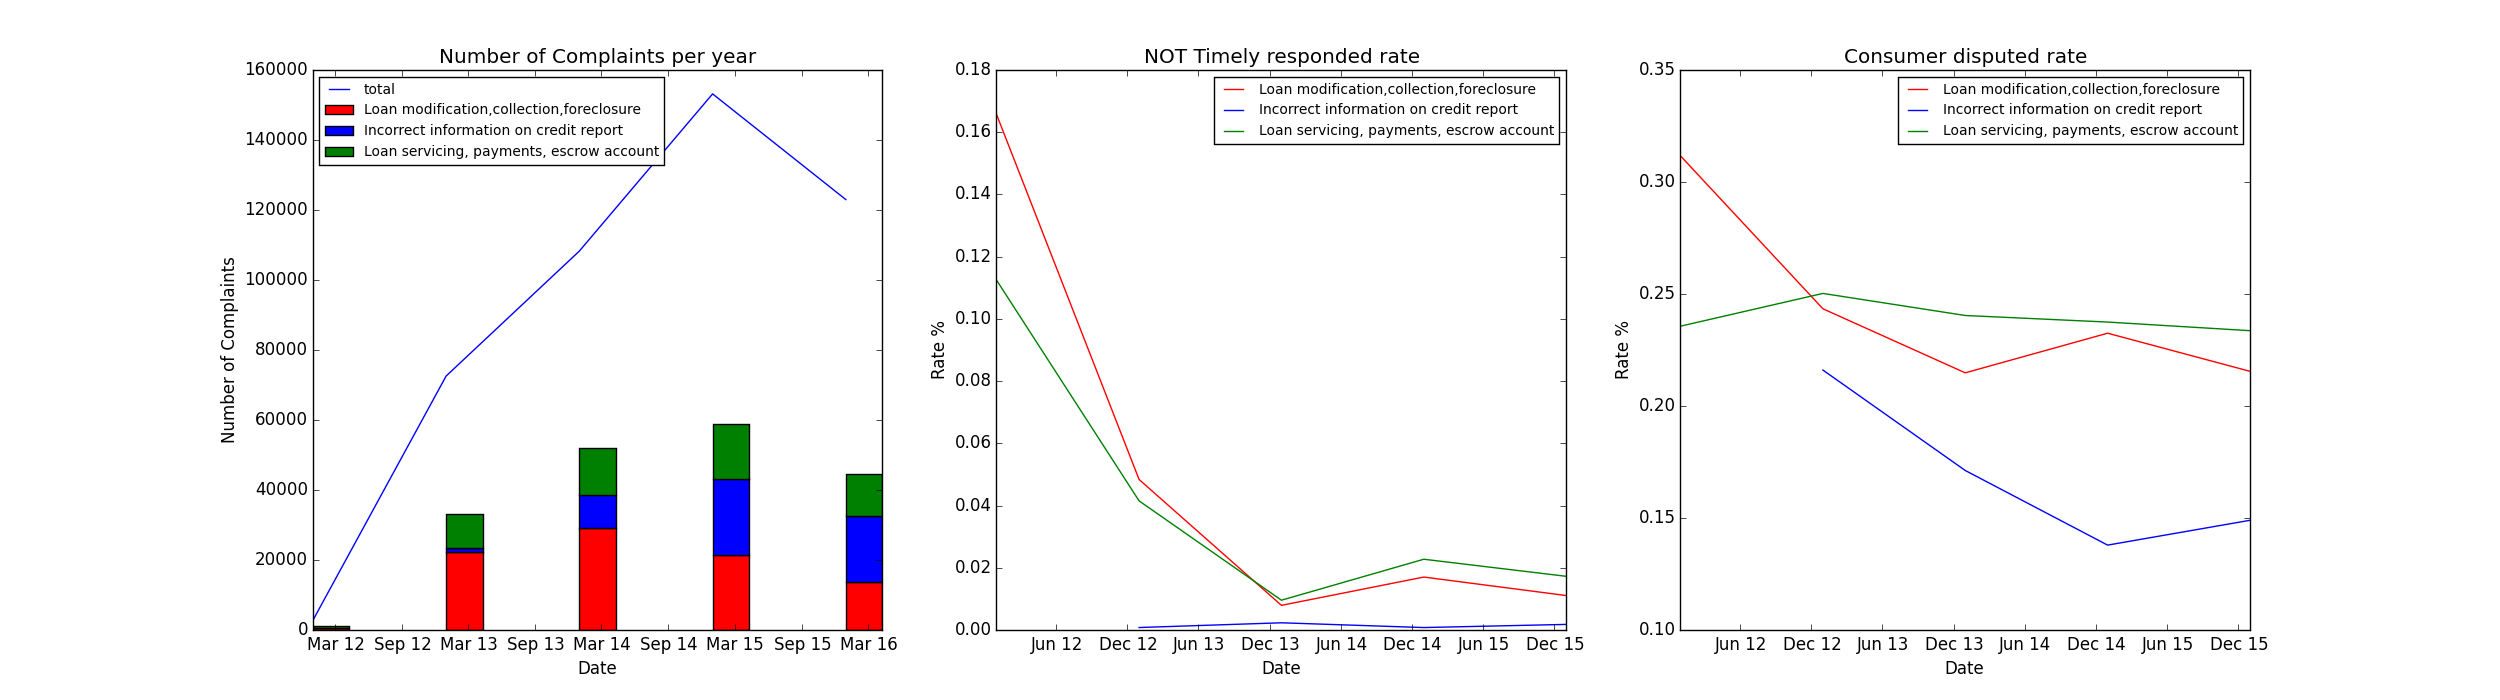
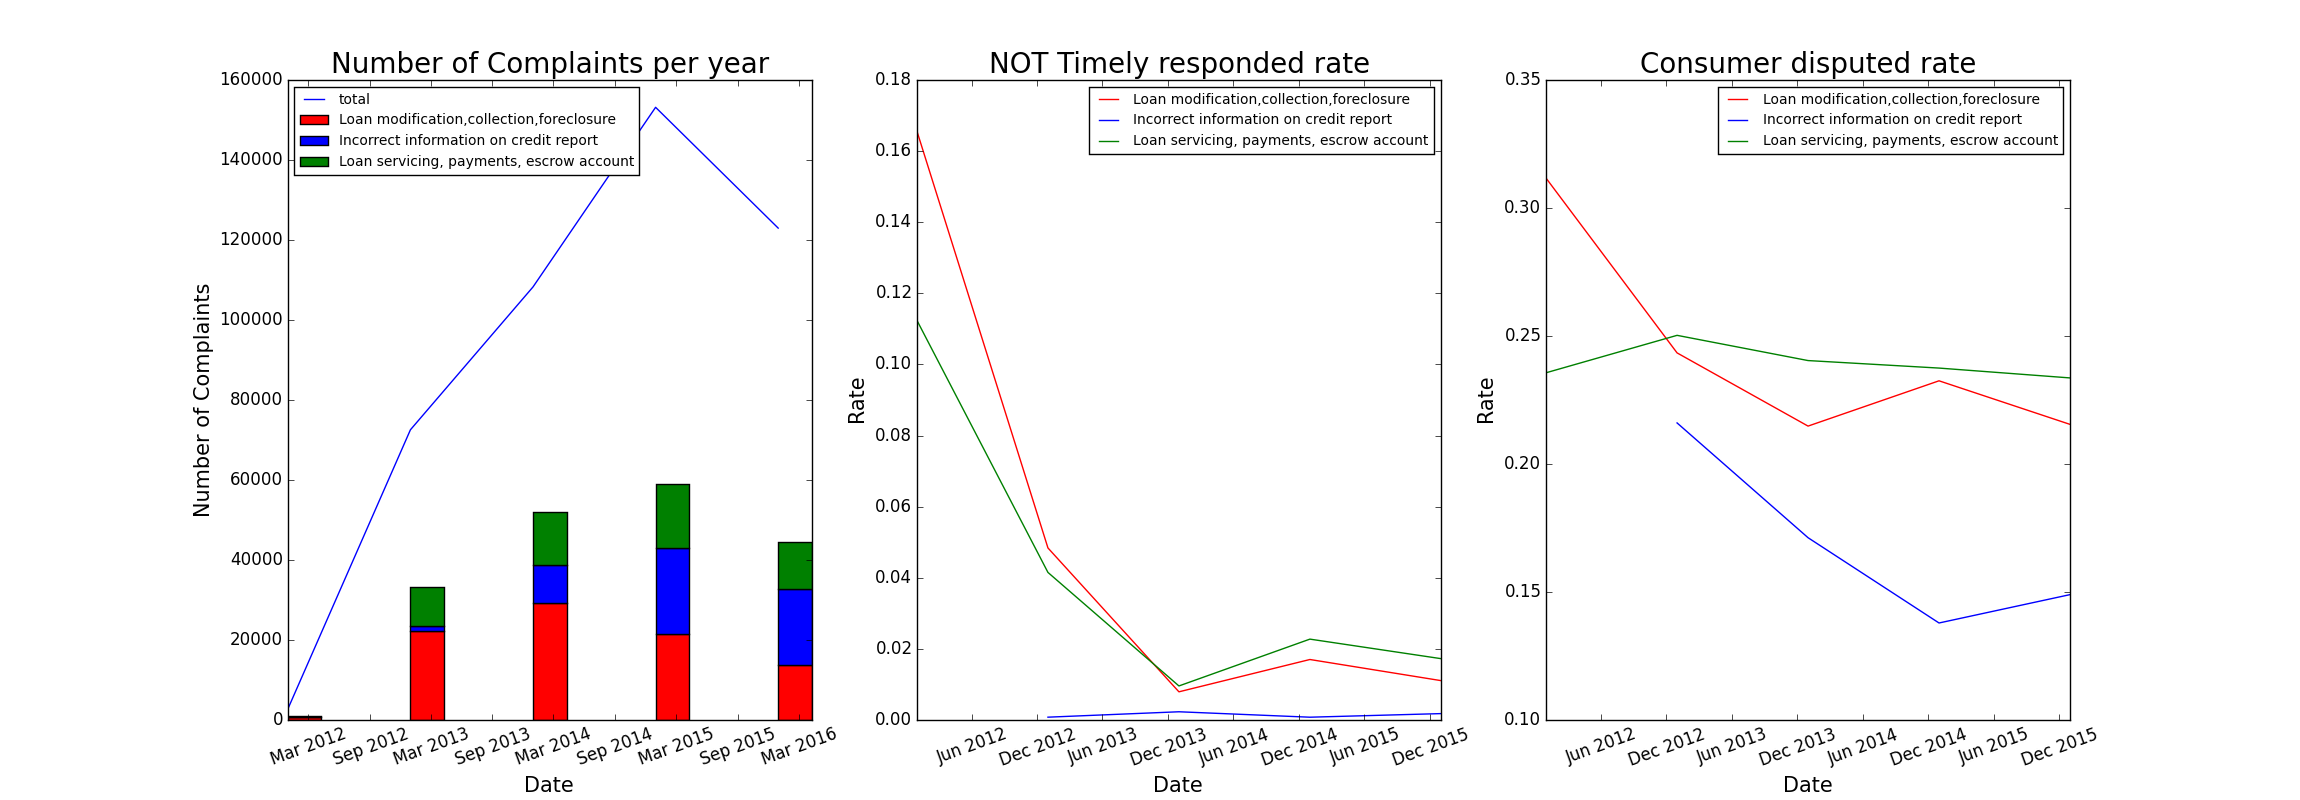
Updated figures and README.md file

diff --git a/ConsumerComplaints_Analy.py b/ConsumerComplaints_Analy.py
@@ -224,7 +224,7 @@ td2 = pd.Series(CountDisp2, index=DateList)
 td2_grp = td2.groupby(level=0).sum().resample('A', how='sum')
 
 
-fig = plt.figure(figsize=(25,7))
+fig = plt.figure(figsize=(23,8))
 fig1 = fig.add_subplot(1,3,1)
 fig2 = fig.add_subplot(1,3,2)
 fig3 = fig.add_subplot(1,3,3)
@@ -234,29 +234,37 @@ fig1.bar(ts0_grp.index,ts0_grp,label='%s' % Issue_List[0],color="red",width=100)
 fig1.bar(ts1_grp.index,ts1_grp,label='%s' % Issue_List[1],color="blue",bottom=ts0_grp,width=100)
 fig1.bar(ts2_grp.index,ts2_grp,label='%s' % Issue_List[2],color="green",bottom=(ts1_grp+ts0_grp),width=100)
 fig1.legend(loc=2, prop={'size':10})
-fig1.set_title('Number of Complaints per year')
-fig1.set_ylabel('Number of Complaints')
-fig1.xaxis.set_major_formatter(DateFormatter('%b %y'))
-fig1.set_xlabel('Date')
+fig1.set_title('Number of Complaints per year', fontsize=20)
+fig1.set_ylabel('Number of Complaints', fontsize=15)
+fig1.xaxis.set_major_formatter(DateFormatter('%b %Y'))
+fig1.set_xlabel('Date',fontsize=15)
+
 
 fig2.plot(ts0_grp.index,tr0_grp/ts0_grp,label='%s' % Issue_List[0],color="red")
 fig2.plot(ts1_grp.index,tr1_grp/ts1_grp,label='%s' % Issue_List[1],color="blue")
 fig2.plot(ts2_grp.index,tr2_grp/ts2_grp,label='%s' % Issue_List[2],color="green")
 fig2.legend(loc=0, prop={'size':10})
-fig2.set_title('NOT Timely responded rate')
-fig2.set_ylabel('Rate %')
-fig2.xaxis.set_major_formatter(DateFormatter('%b %y'))
-fig2.set_xlabel('Date')
+fig2.set_title('NOT Timely responded rate',fontsize=20)
+fig2.set_ylabel('Rate',fontsize=15)
+fig2.xaxis.set_major_formatter(DateFormatter('%b %Y'))
+fig2.set_xlabel('Date',fontsize=15)
+plt.xticks(rotation=30)
 
 fig3.plot(ts0_grp.index,td0_grp/ts0_grp,label='%s' % Issue_List[0],color="red")
 fig3.plot(ts1_grp.index,td1_grp/ts1_grp,label='%s' % Issue_List[1],color="blue")
 fig3.plot(ts2_grp.index,td2_grp/ts2_grp,label='%s' % Issue_List[2],color="green")
 fig3.legend(loc=0, prop={'size':10})
-fig3.set_title('Consumer disputed rate')
-fig3.set_ylabel('Rate %')
-fig3.xaxis.set_major_formatter(DateFormatter('%b %y'))
-fig3.set_xlabel('Date')
+fig3.set_title('Consumer disputed rate',fontsize=20)
+fig3.set_ylabel('Rate',fontsize=15)
+fig3.xaxis.set_major_formatter(DateFormatter('%b %Y'))
+fig3.set_xlabel('Date',fontsize=15)
 
+matplotlib.pyplot.sca(fig1)
+plt.xticks(rotation=20)
+matplotlib.pyplot.sca(fig2)
+plt.xticks(rotation=20)
+matplotlib.pyplot.sca(fig3)
+plt.xticks(rotation=20)
 
 plt.savefig('ComplainCount')
 pl.clf()
@@ -294,13 +302,34 @@ corpus = [dictionary.doc2bow(text) for text in texts]
 
 # generate LDA model
 ldamodel = gensim.models.ldamodel.LdaModel(corpus, num_topics=5, id2word = dictionary, passes=20)
+LDAText =  ldamodel.print_topics(num_topics=5, num_words=3)
 print "\n Topic analysis result for top 25 issues with LDA"
-print(ldamodel.print_topics(num_topics=5, num_words=3))
+print(LDAText)
 
-#wordcloud = WordCloud(max_font_size=40).generate(text_view)
 wordcloud = WordCloud().generate(text_view)
-plt.figure()
-plt.title("Top issue words")
-plt.imshow(wordcloud)
-plt.axis("off")
+fig = plt.figure(figsize=(15,8))
+fig1 = fig.add_subplot(1,2,1)
+fig1.set_title('5 Issue Topics from LDA Topic Modeling',fontdict={'fontsize':25})
+fig1.text(0.5, 0.9, LDAText[0], size=15, rotation=0.,
+          ha="center", va="center",
+          bbox=dict(boxstyle="round", ec=(1., 0.5, 0.5), fc=(1., 0.8, 0.8),))
+fig1.text(0.5, 0.75, LDAText[1], size=15, rotation=0.,
+          ha="center", va="center",
+          bbox=dict(boxstyle="round", ec=(1., 0.5, 0.5), fc=(1., 0.8, 0.8),))
+fig1.text(0.5, 0.6, LDAText[2], size=15, rotation=0.,
+          ha="center", va="center",
+          bbox=dict(boxstyle="round", ec=(1., 0.5, 0.5), fc=(1., 0.8, 0.8),))
+fig1.text(0.5, 0.45, LDAText[3], size=15, rotation=0.,
+          ha="center", va="center",
+          bbox=dict(boxstyle="round", ec=(1., 0.5, 0.5), fc=(1., 0.8, 0.8),))
+fig1.text(0.5, 0.3, LDAText[4], size=15, rotation=0.,
+          ha="center", va="center",
+          bbox=dict(boxstyle="round", ec=(1., 0.5, 0.5), fc=(1., 0.8, 0.8),))
+fig1.axis('off')
+
+fig2 = fig.add_subplot(1,2,2)
+fig2.set_title("Top issue words", fontdict={'fontsize':25})
+fig2.imshow(wordcloud)
+fig2.axis("off")
+
 plt.savefig('ComplainCount_WC')

diff --git a/README.md b/README.md
@@ -6,20 +6,29 @@ This script performs following analyses as follow.
 [Outputs are in output.dat file and there are three plots, bar.png, ComplainCount.png, and ComplainCount_WC.png.]
 
 1) It demonstrates the contents and size of the file.
-   Main contents, which I use in this analysis are 'Date received','Issue','Product','Timely response?', and 'Consumer disputed?'
+   Main contents, which I use in this analysis are 'Date received', 'Issue', 'Product', 'Timely response?', and 'Consumer disputed?'
 
-2) Compute the Pearson's correlation between 'Timely response?' and 'Consumer disputed?'.
+2) Compute the Pearson's correlation between 'Timely response?' and 'Consumer disputed?'
    I find that there is very little correlation, correlation coefficient = 0.0334 and p-value ~ 0.
 
 3) I select "Top 5 most frequently complained products", "Top 5 most frequently complained products which are not Timely responded", and "Top 5 most frequently complained products which are Consumer disputed" and I find "Mortgage" and "Debt collection" are top 2 products.
    "Debt collection" complaint gets less timely response while "Mortgage" complaint gets the highest rate to Consumer disputed.
-   I also plot the time evolution of the top 3 complained products year between 2011 to 2015 in bars.png.
+   I also plot the time evolution of the top 3 complained products year between 2011 and 2015 in bars.png.
 
-4) I select "Top 5 most frequently complained issues", "Top 5 most frequently complained issues which are not Timely responded", and "Top 5 most frequently complained issues which are Consumer disputed" and I find "Loan modification,collection,foreclosure".
+4) I select "Top 5 most frequently complained issues", "Top 5 most frequently complained issues which are not Timely responded", and "Top 5 most frequently complained issues which are Consumer disputed" and I find "Loan modification, collection, foreclosure".
    "Cont'd attempts collect debt not owed" complaint, which is 4th most frequently complained issue, gets less timely response.
-   "Loan modification,collection,foreclosure" complaint, which is 1st most frequently complained issue, gets the highest rate to Consumer disputed.
-   In addition, I plot the time evolution of the total number of complaint with 1st and 2nd most frequently complained issues in ComplainCount.png.
+   "Loan modification, collection, foreclosure" complaint, which is 1st most frequently complained issue, gets the highest rate to Consumer disputed.
+   In order to make clear view, I plot annual time evolution of the total number of complaint with top three most frequently complained issues, the rate of NOT Timely responded, and the rate of Consumer disputed.
+   I see that the timely responded rate is improved over the last 4 years, while the Consumer disputed rate is more less constant.
 
-5) Lastly, I perform a topic modeling with top 25 most frequently complained issues using LDA method.
-   The output of the LDA analysis are [u'0.076*loan + 0.041*servic + 0.041*payment', u'0.035*money + 0.035*make + 0.035*send', u'0.082*credit + 0.056*report + 0.056*collect', u'0.071*account + 0.071*close + 0.039*problem', u'0.050*ident + 0.050*theft + 0.050*fraud']
-   The realted result is also shown in ComplainCount_WC.png as word cloud.
+5) In order to make different perspective to the topic of the issue, I perform a topic modeling with top 25 most frequently complained issues using LDA method.
+   The outputs of the LDA analysis are
+   u'0.107*credit + 0.073*report + 0.040*unabl', 
+   u'0.038*payment + 0.037*send + 0.037*make', 
+   u'0.055*servic + 0.030*debt + 0.030*attempt', 
+   u'0.052*problem + 0.052*account + 0.052*close', 
+   u'0.038*loan + 0.038*manag + 0.038*collect'
+   The topic list is shown the left panel of the ComplainCount_WC.png.
+   In addition, the related words for the issues are shown in right panel if the ComplainCount_WC.png as word cloud with popular words shown in larger fonts.
+
+Future, I would like to dissect the response and disputed rate depending on the state to see which states need to be improve the service. I also plan to topic modeling with "consumer complaint narratives" to understand general concerns from the consumers. 
